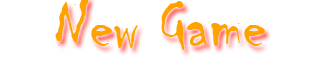
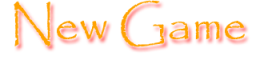
nuove immagini menu

diff --git a/trunk/src/game/common/ImagesContainer.java b/trunk/src/game/common/ImagesContainer.java
@@ -107,7 +107,7 @@ public class ImagesContainer {
 		// scale all image respect screen size
 		for(int i=0; i<menuImagesFolders.size(); i++){
 			Image img = Toolkit.getDefaultToolkit().getImage( menuImagesFolders.get(i) );
-			img = img.getScaledInstance(screenSize.width/3, screenSize.height/10, Image.SCALE_SMOOTH);
+			img = img.getScaledInstance(screenSize.width/4, screenSize.height/11, Image.SCALE_SMOOTH);
 			menuImagesContainer.add(img);
 		}
 	}
@@ -127,7 +127,7 @@ public class ImagesContainer {
 		// Scale every image respect screen size
 		for(int i=0; i<inGameMenuImagesFolder.size(); i++){
 			Image img = Toolkit.getDefaultToolkit().getImage( inGameMenuImagesFolder.get(i) );
-			img = img.getScaledInstance(screenSize.width/3, screenSize.height/10, Image.SCALE_SMOOTH);
+			img = img.getScaledInstance(screenSize.width/4, screenSize.height/11, Image.SCALE_SMOOTH);
 			inGameMenuImagesContainer_no_fullscreen.add( img );
 		}
 	}
@@ -151,8 +151,8 @@ public class ImagesContainer {
 		// Scale every image respect screen size
 		for(int i=0; i<inGameMenuImagesFolder.size(); i++){
 			Image img = Toolkit.getDefaultToolkit().getImage( inGameMenuImagesFolder.get(i) );
-			img = img.getScaledInstance(screenSizeFullscreen.width/3, 
-					screenSizeFullscreen.height/10, Image.SCALE_FAST);
+			img = img.getScaledInstance(screenSizeFullscreen.width/4, 
+					screenSizeFullscreen.height/11, Image.SCALE_FAST);
 			inGameMenuImagesContainer_with_fullscreen.add( img );
 		}
 	}
